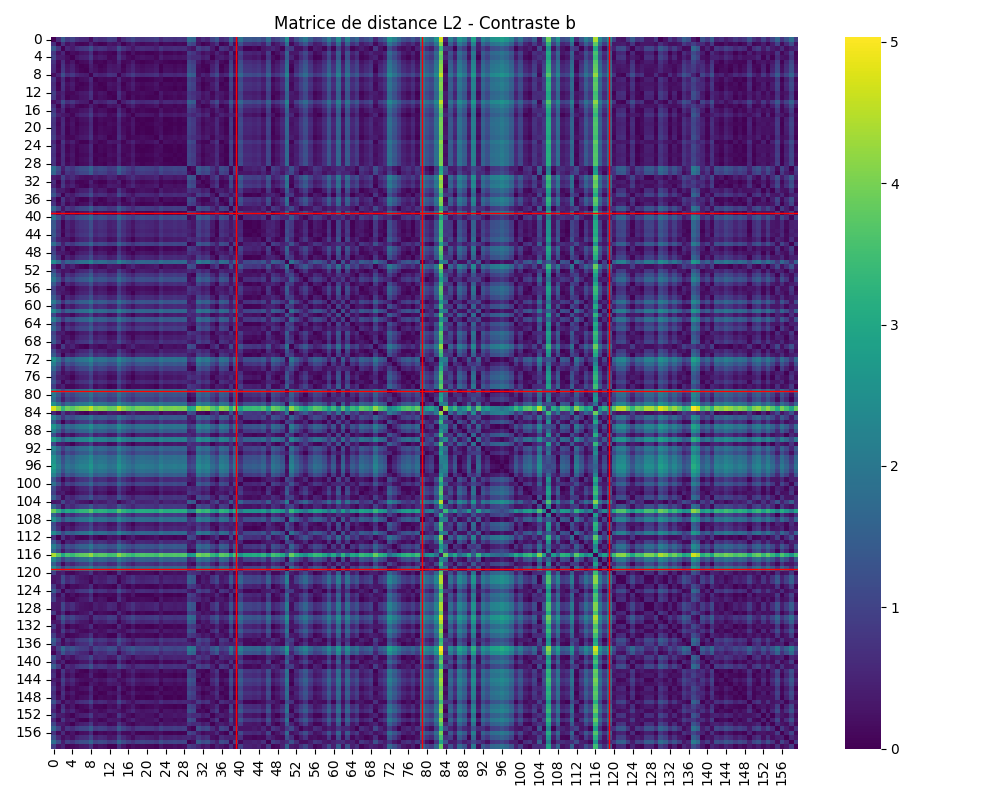
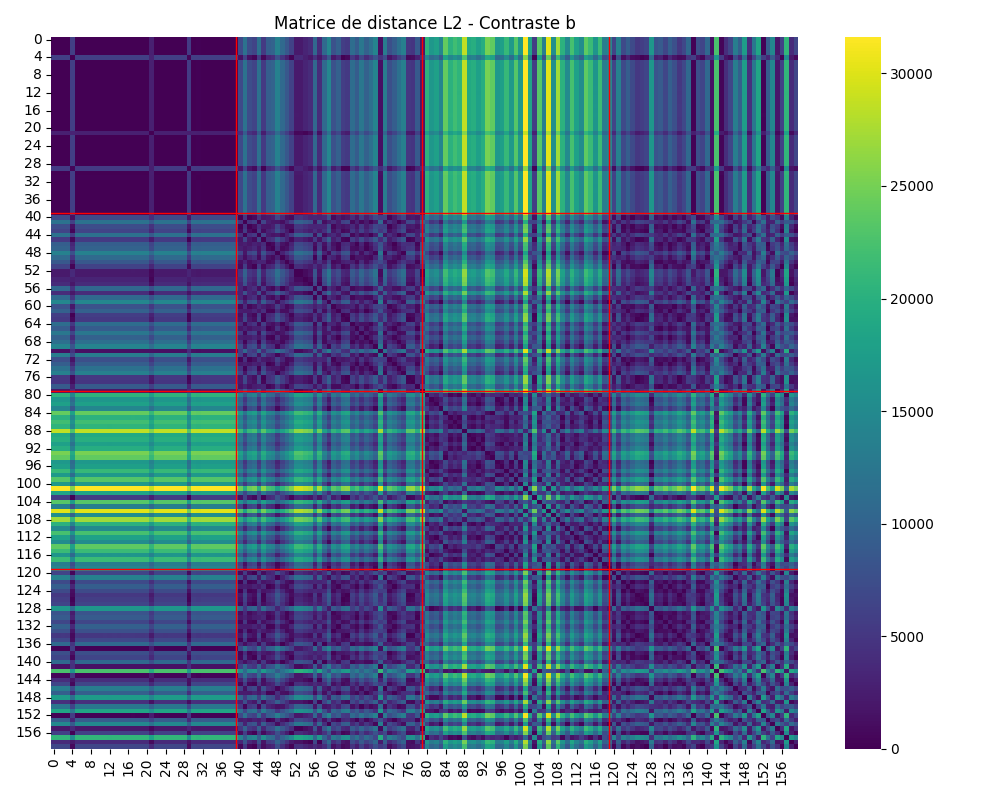
Correction matrices de distances

diff --git a/extract_features.py b/extract_features.py
@@ -122,6 +122,7 @@ def faire_matrices_de_distances():
     
     # Charger ou calculer les caractéristiques
     features, labels = load_or_compute_features(data, labels, force_recompute=False)
+
     print("Caractéristiques extraites ou chargées avec succès")
     
     # Liste des caractéristiques avec leurs indices et titres
@@ -131,11 +132,12 @@ def faire_matrices_de_distances():
         2: ('b_mean', 'Moyenne b'),
         3: ('b_std', 'Écart-type b'),
         4: ('b_contrast', 'Contraste b'),
-        5: ('b_homogeneity', 'Homogénéité b'),
-        6: ('l_entropy', 'Entropie L'),
-        7: ('b_entropy', 'Entropie b'),
-        8: ('l_energy', 'Énergie L'),
-        9: ('b_energy', 'Énergie b'),
+        5: ('lomogeneity', 'Homogénéité L'),
+        6: ('bomogeneity', 'Homogénéité b'),
+        7: ('l_entropy', 'Entropie L'),
+        8: ('b_entropy', 'Entropie b'),
+        9: ('l_energy', 'Énergie L'),
+        10: ('b_energy', 'Énergie b'),
     }
     
     # Convertir les features en numpy pour faciliter les calculs

diff --git a/utils.py b/utils.py
@@ -6,7 +6,7 @@ from extract_features import extract_features
 
 # Chemins pour la sauvegarde des features
 FEATURES_PATH = "features/"
-FEATURES_FILE = os.path.join(FEATURES_PATH, "precomputed_features_old.pkl")
+FEATURES_FILE = os.path.join(FEATURES_PATH, "precomputed_features.pkl")
 
 def load_or_compute_features(data, labels, force_recompute=False):
     """
